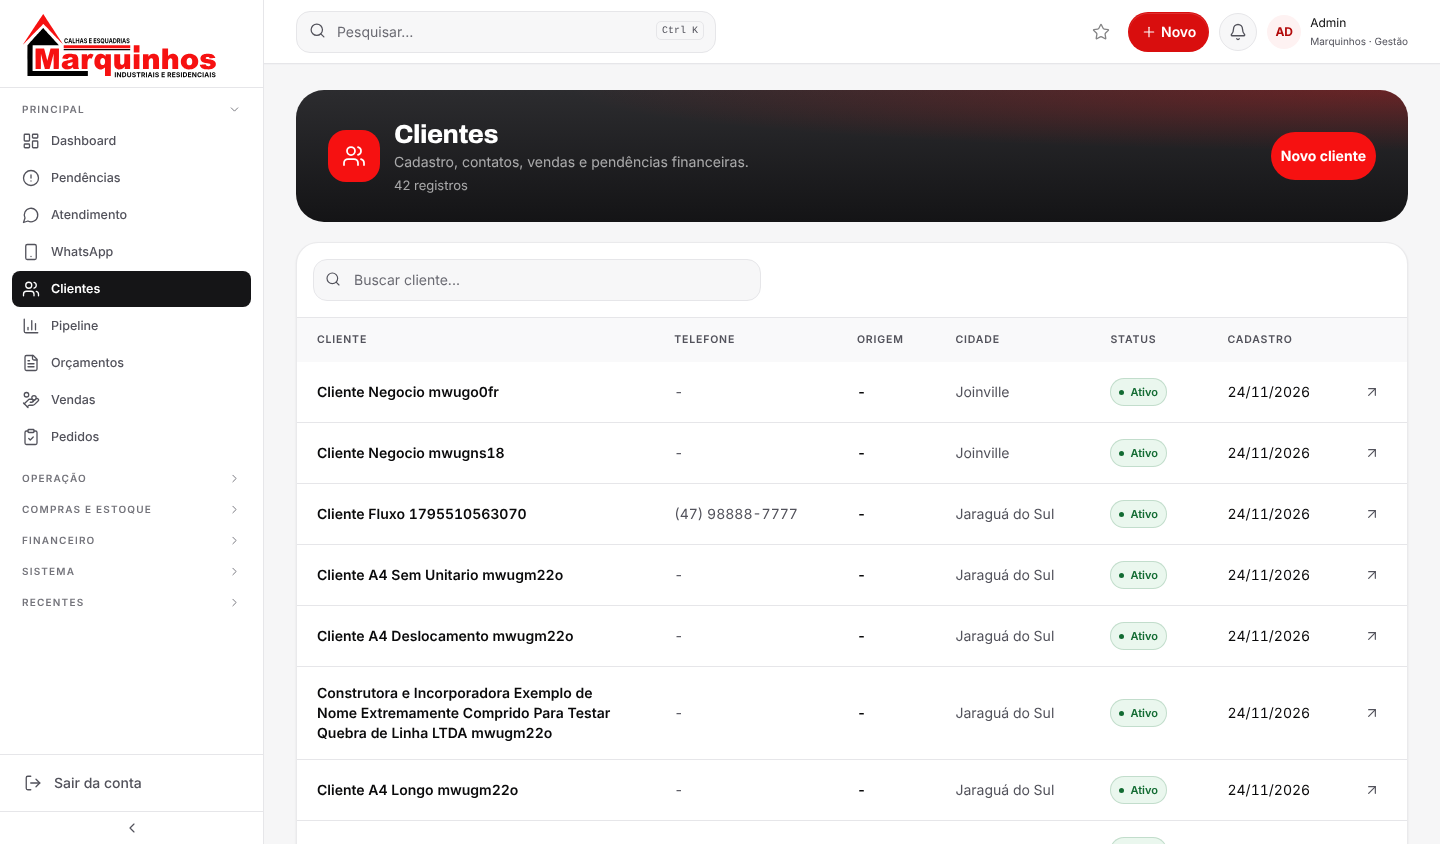
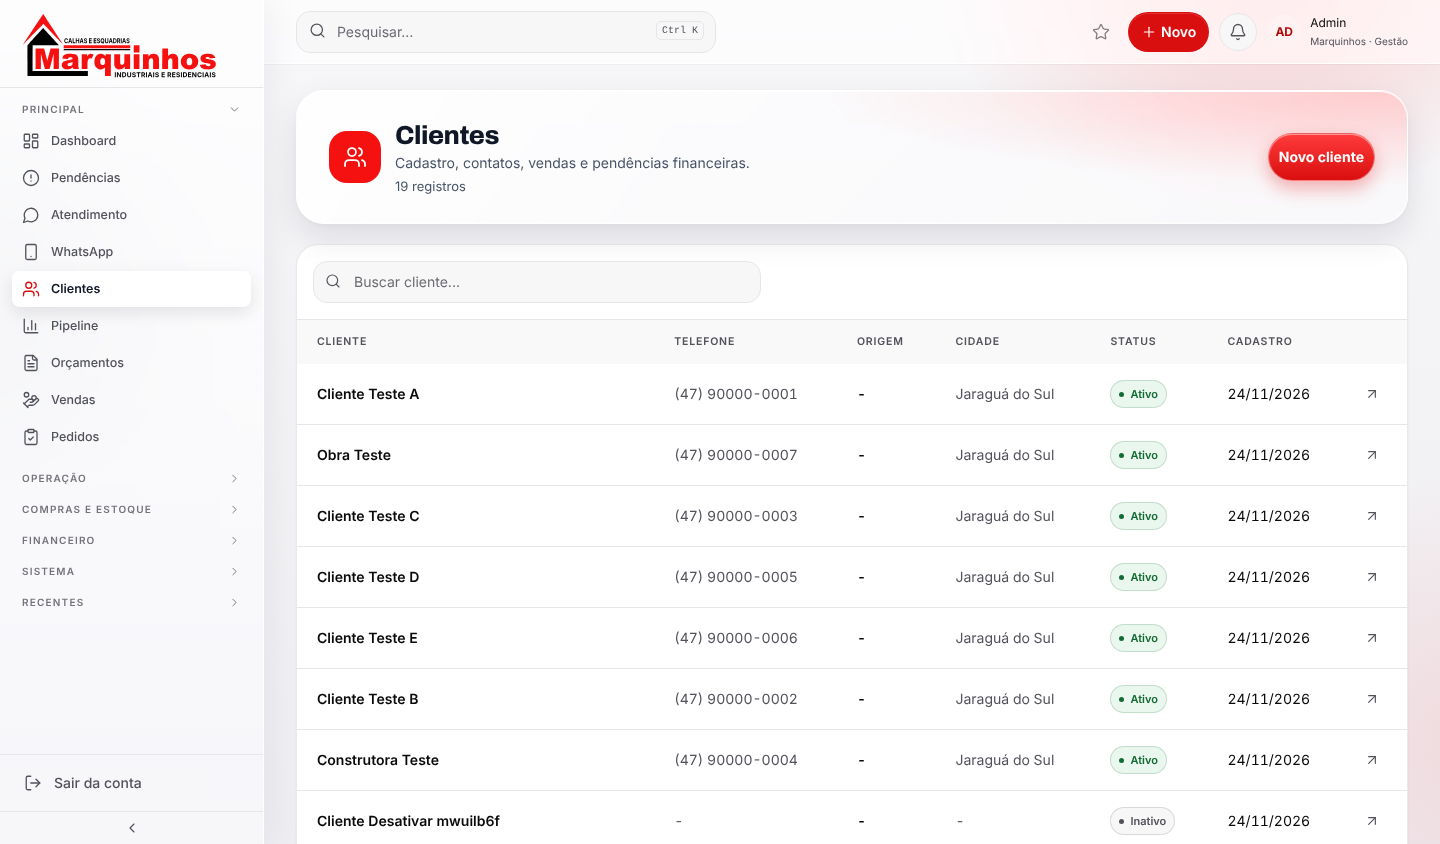
feat(ux): vidro (liquid glass) no lugar dos painéis pretos
- painéis de destaque, faixa de título, topo, menu lateral e barra inferior em vidro fosco: desfoque, borda clara e brilho, sobre fundo claro com tom suave da marca
- atalhos, ícones e contagens em vermelho translúcido; seleção em vermelho
- cartões e listas continuam brancos e sólidos (mais limpo e leve)
- fallback sem desfoque e respeito a 'reduzir transparência'
- corrige duplicidade do cabeçalho de Orçamentos e do link de equipes no celular

Claude-Session: https://claude.ai/code/session_019r53HgSe1yoioPFHkHVqRt

diff --git a/app/glass.css b/app/glass.css
@@ -1,0 +1,127 @@
+/* ===== Vidro (liquid glass): painéis translúcidos com desfoque, borda clara e brilho, no lugar dos painéis pretos =====
+   Só os painéis principais, a barra do topo, a barra inferior e o menu lateral usam desfoque (leve em celulares).
+   Listas e cartões continuam brancos e sólidos: mais limpos e rápidos. */
+:root {
+  --glass-bg: linear-gradient(135deg, rgb(255 255 255 / .74) 0%, rgb(255 255 255 / .38) 100%);
+  --glass-border: rgb(255 255 255 / .85);
+  --glass-shadow: 0 14px 34px rgb(16 24 40 / .10), 0 2px 6px rgb(16 24 40 / .04), inset 0 1px 0 rgb(255 255 255 / .95), inset 0 -1px 0 rgb(255 255 255 / .4);
+  --glass-blur: blur(22px) saturate(175%);
+  --ink-strong: #101828;
+  --ink-soft: #475467;
+}
+
+/* Fundo claro com um brilho suave da marca: é o que o vidro "enxerga" por trás */
+.app-shell-root { position: relative; isolation: isolate; background: #F2F2F5; }
+.app-shell-root::before { content: ""; position: fixed; inset: 0; z-index: -1; pointer-events: none;
+  background:
+    radial-gradient(560px 380px at 88% -4%, rgb(246 17 17 / .20) 0%, transparent 62%),
+    radial-gradient(520px 420px at -6% 34%, rgb(16 24 40 / .08) 0%, transparent 62%),
+    radial-gradient(560px 460px at 104% 88%, rgb(246 17 17 / .10) 0%, transparent 62%),
+    linear-gradient(180deg, #F7F7F9 0%, #EEEEF2 100%); }
+.app-workspace, .app-content { background: transparent; }
+
+/* ---------- painéis de destaque ---------- */
+.mh-hero, .shell-band, .detail-hero, .sale-hero, .module-hero {
+  position: relative; overflow: hidden; color: var(--ink-strong);
+  background: radial-gradient(90% 120% at 100% 0%, rgb(246 17 17 / .16) 0%, transparent 60%), var(--glass-bg);
+  border: 1px solid var(--glass-border);
+  -webkit-backdrop-filter: var(--glass-blur); backdrop-filter: var(--glass-blur);
+  box-shadow: var(--glass-shadow);
+}
+.mh-hero::before, .shell-band::before, .sale-hero::before { content: ""; position: absolute; inset: 0; z-index: 0; pointer-events: none; border-radius: inherit;
+  background: linear-gradient(118deg, rgb(255 255 255 / .55) 0%, rgb(255 255 255 / 0) 36%); }
+.mh-hero > *, .shell-band > *, .sale-hero > * { position: relative; z-index: 1; }
+
+.mh-hero .mh-greeting, .mh-hero h1, .shell-band, .detail-hero .mh-greeting { color: var(--ink-strong); }
+.mh-hero .mh-date, .mh-hero .mh-hero-label, .mh-hero .mh-hero-note, .module-hero-desc, .detail-kind, .sale-hero-client, .agenda-hero-note { color: var(--ink-soft); }
+.mh-hero:not(:has(.mh-hero-card)) .mh-hero-value { color: var(--ink-strong); }
+.mh-hero-card { background: rgb(255 255 255 / .66); border: 1px solid rgb(255 255 255 / .95); box-shadow: 0 10px 28px rgb(16 24 40 / .10), inset 0 1px 0 #fff; color: var(--ink-strong); }
+.mh-hero-card .mh-hero-value { color: var(--ink-strong); }
+.mh-bars .mh-bar-col > i, .mh-hero-card .mh-bar-col > i { background: rgb(16 24 40 / .12); }
+.mh-bar-col[data-current="true"] > i, .mh-hero-card .mh-bar-col[data-current="true"] > i { background: linear-gradient(180deg, #FF4A4A, #D90E0E); }
+.mh-bar-col > span { color: var(--ink-soft); }
+.mh-circles a { color: var(--ink-strong); }
+.mh-circles a > span { background: rgb(246 17 17 / .10); color: var(--brand-strong); border: 1px solid rgb(246 17 17 / .18); box-shadow: inset 0 1px 0 rgb(255 255 255 / .8); }
+.mh-pill { background: rgb(255 255 255 / .78); border: 1px solid rgb(255 255 255 / .95); color: var(--ink-strong); box-shadow: 0 4px 12px rgb(16 24 40 / .08), inset 0 1px 0 #fff; }
+.mh-pill.is-primary { background: linear-gradient(180deg, #FF3B3B, #D90E0E); border-color: rgb(255 255 255 / .35); color: #fff; box-shadow: 0 8px 18px rgb(217 14 14 / .30), inset 0 1px 0 rgb(255 255 255 / .45); }
+.mh-hero .mh-hero-note.module-hero-count { color: var(--ink-soft); }
+
+/* detalhe e venda */
+.detail-actions .button, .detail-actions .button-ghost, .sale-hero-actions .button, .sale-hero-actions .button-ghost { background: rgb(255 255 255 / .78); border: 1px solid rgb(255 255 255 / .95); color: var(--ink-strong); box-shadow: 0 3px 10px rgb(16 24 40 / .07), inset 0 1px 0 #fff; }
+.detail-actions .button, .sale-hero-actions .button { background: linear-gradient(180deg, #FF3B3B, #D90E0E); color: #fff; border-color: rgb(255 255 255 / .35); }
+.detail-actions .button-ghost.text-red-700 { color: var(--brand-strong); }
+.sale-money { background: rgb(255 255 255 / .55); border: 1px solid rgb(255 255 255 / .9); }
+.sale-money.is-total { background: rgb(255 255 255 / .85); }
+.sale-money > p:first-child { color: var(--ink-soft); }
+
+/* faixa de título */
+.shell-band { text-shadow: none; }
+
+/* agenda dentro do vidro */
+.agenda-hero .mobile-agenda-heading h1 { color: var(--ink-strong); }
+.agenda-hero .mobile-agenda-heading h1 svg { color: var(--ink-soft); }
+.agenda-hero .mobile-icon-button { background: rgb(255 255 255 / .75); color: var(--ink-strong); border: 1px solid rgb(255 255 255 / .95); }
+.agenda-hero .mobile-segmented { background: rgb(255 255 255 / .5); border: 1px solid rgb(255 255 255 / .9); }
+.agenda-hero .mobile-segmented > button { color: var(--ink-soft); }
+.agenda-hero .mobile-segmented > button[aria-pressed="true"] { background: #fff; color: var(--brand-strong); box-shadow: 0 3px 10px rgb(16 24 40 / .10); }
+.agenda-hero .mobile-date-nav { background: rgb(255 255 255 / .6); border: 1px solid rgb(255 255 255 / .9); }
+.agenda-hero .mobile-date-nav > button { color: var(--ink-strong); }
+
+/* WhatsApp: topo da lista em vidro (celular) */
+@media (max-width: 767px) {
+.mobile-inbox .wa-list-head { position: relative; overflow: hidden; color: var(--ink-strong);
+  background: radial-gradient(90% 120% at 100% 0%, rgb(246 17 17 / .16) 0%, transparent 60%), var(--glass-bg);
+  border: 1px solid var(--glass-border); -webkit-backdrop-filter: var(--glass-blur); backdrop-filter: var(--glass-blur); box-shadow: var(--glass-shadow); }
+.mobile-inbox .wa-list-head::before { content: ""; position: absolute; inset: 0; z-index: 0; pointer-events: none; border-radius: inherit; background: linear-gradient(118deg, rgb(255 255 255 / .55) 0%, rgb(255 255 255 / 0) 36%); }
+.mobile-inbox .wa-list-head > * { position: relative; z-index: 1; }
+.mobile-inbox .wa-list-head .wa-title { color: var(--ink-strong); }
+.mobile-inbox .wa-list-head .wa-subtitle { color: var(--ink-soft); }
+.mobile-inbox .wa-list-head .wa-icon-btn { color: var(--ink-strong); }
+.mobile-inbox .wa-list-head .wa-icon-btn:hover { background: rgb(255 255 255 / .6); }
+.mobile-inbox .wa-list-head .wa-icon-btn-box { background: rgb(255 255 255 / .7); color: var(--ink-strong); border: 1px solid rgb(255 255 255 / .95); }
+.mobile-inbox .wa-list-head .wa-number { background: rgb(255 255 255 / .6); border-color: rgb(255 255 255 / .95); }
+.mobile-inbox .wa-list-head .wa-number[aria-pressed="true"] { background: rgb(255 255 255 / .9); border-color: var(--wa-accent); }
+.mobile-inbox .wa-list-head .wa-number-name { color: var(--ink-strong); }
+.mobile-inbox .wa-list-head .wa-number-phone, .mobile-inbox .wa-list-head .wa-number-add { color: var(--ink-soft); }
+.mobile-inbox .wa-list-head .wa-chip { background: rgb(255 255 255 / .62); color: #344054; }
+.mobile-inbox .wa-list-head .wa-chip[aria-pressed="true"] { background: var(--wa-accent); color: #fff; }
+.mobile-inbox .wa-list-head .wa-chip-count { background: rgb(16 24 40 / .08); }
+.mobile-inbox .wa-list-head .wa-chip[aria-pressed="true"] .wa-chip-count { background: rgb(255 255 255 / .25); }
+.mobile-inbox .wa-list-head .wa-search { background: rgb(255 255 255 / .7); color: var(--ink-soft); border-color: rgb(255 255 255 / .95); }
+.mobile-inbox .wa-list-head .wa-search:focus-within { background: #fff; border-color: var(--wa-accent); }
+.mobile-inbox .wa-list-head .wa-search input { color: var(--ink-strong); }
+.mobile-inbox .wa-list-head .wa-search input::placeholder { color: var(--ink-soft); }
+.mobile-inbox .wa-list-head .wa-link { color: var(--wa-accent); }
+}
+
+/* ---------- elementos que eram pretos ---------- */
+.mh-event-icon { background: rgb(246 17 17 / .10); color: var(--brand-strong); border: 1px solid rgb(246 17 17 / .16); }
+.pq-count { background: rgb(246 17 17 / .12); color: var(--brand-strong); }
+.pq-item[data-urgent="true"] .pq-count { background: var(--brand); color: #fff; }
+.mh-story { background: conic-gradient(from 200deg, #F61111, #FF9A9A 38%, #F61111 70%, #B30B0B); }
+.mh-story > span { color: var(--brand-strong); }
+.mobile-quote-workspace nav[aria-label='Status do orçamento'] a.button { background: linear-gradient(180deg, #FF3B3B, #D90E0E); border-color: transparent; color: #fff; }
+.mobile-agenda-filters button[aria-pressed="true"] { background: linear-gradient(180deg, #FF3B3B, #D90E0E); border-color: transparent; color: #fff; }
+
+/* ---------- barra do topo, menu lateral e barra inferior ---------- */
+.app-topbar { background: rgb(255 255 255 / .66); -webkit-backdrop-filter: var(--glass-blur); backdrop-filter: var(--glass-blur); border-bottom: 1px solid rgb(255 255 255 / .8); box-shadow: 0 1px 0 rgb(16 24 40 / .04); }
+.app-sidebar { background: linear-gradient(180deg, rgb(255 255 255 / .74), rgb(255 255 255 / .5)); -webkit-backdrop-filter: var(--glass-blur); backdrop-filter: var(--glass-blur); border-right: 1px solid rgb(255 255 255 / .85); box-shadow: 8px 0 30px rgb(16 24 40 / .05); }
+.sidebar-link.is-active { background: #fff; color: var(--ink-strong); box-shadow: 0 6px 16px rgb(16 24 40 / .10), inset 0 1px 0 #fff; }
+.sidebar-link.is-active svg { color: var(--brand-strong); }
+.mobile-bottom-bar { background: linear-gradient(135deg, rgb(255 255 255 / .78), rgb(255 255 255 / .50)); -webkit-backdrop-filter: var(--glass-blur); backdrop-filter: var(--glass-blur); border: 1px solid rgb(255 255 255 / .9); box-shadow: 0 14px 34px rgb(16 24 40 / .16), inset 0 1px 0 #fff; }
+.mobile-bottom-bar a[aria-current="page"] .mobile-tab-icon { background: linear-gradient(180deg, #FFFFFF, rgb(255 255 255 / .78)); color: var(--brand-strong); box-shadow: 0 8px 18px rgb(16 24 40 / .20), 0 0 0 4px rgb(255 255 255 / .55), inset 0 1px 0 #fff; }
+.mobile-bottom-bar a[aria-current="page"] { color: var(--ink-strong); }
+.quote-save-bar { background: rgb(255 255 255 / .78); -webkit-backdrop-filter: var(--glass-blur); backdrop-filter: var(--glass-blur); }
+
+/* telas muito pequenas ou sem suporte a desfoque: fundo mais opaco para manter a leitura */
+@supports not ((backdrop-filter: blur(1px)) or (-webkit-backdrop-filter: blur(1px))) {
+  .mh-hero, .shell-band, .detail-hero, .sale-hero, .module-hero, .app-topbar, .app-sidebar, .mobile-bottom-bar { background: rgb(255 255 255 / .94); }
+}
+@media (prefers-reduced-transparency: reduce) {
+  .mh-hero, .shell-band, .detail-hero, .sale-hero, .module-hero, .app-topbar, .app-sidebar, .mobile-bottom-bar { background: #fff; -webkit-backdrop-filter: none; backdrop-filter: none; }
+}
+@media print { .app-shell-root::before { display: none; } }
+
+/* corrige regras antigas de celular que reexibiam elementos escondidos */
+.mobile-quote-workspace > header.hidden { display: none; }
+@media (max-width: 767px) { .app-content .agenda-equipes-link { display: none; } }

diff --git a/app/layout.tsx b/app/layout.tsx
@@ -6,6 +6,7 @@ import "./marquinhos.css";
 import "./quote-paper.css";
 import "./home.css";
 import "./mobile.css";
+import "./glass.css";
 
 export const metadata: Metadata = { title: { default: "Marquinhos Calhas e Esquadrias", template: "%s · Marquinhos" }, description: "Gestão, orçamentos e operação da Marquinhos Calhas e Esquadrias — by Anderson Bielenki", applicationName: "Marquinhos Gestão", icons: { icon: "/icon.svg?v=marquinhos-oficial", apple: "/apple-touch-icon.png" } };
 
